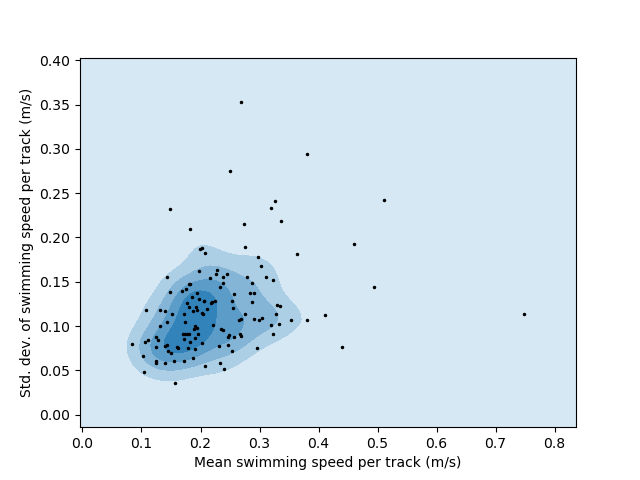
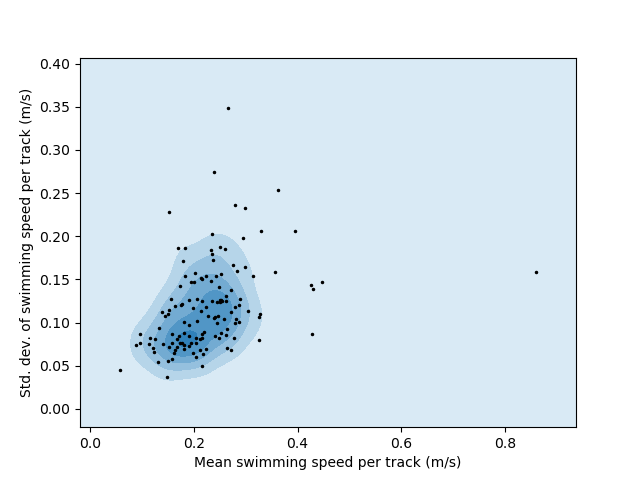
Updating with new hydro output, and plots for 3 choices of vertical

diff --git a/field/hor_yaps/extract_velocities_v3.py b/field/hor_yaps/extract_velocities_v3.py
@@ -10,7 +10,7 @@ import glob, os
 import matplotlib
 import shutil
 import glob
-matplotlib.use('Agg')
+# matplotlib.use('Agg')
 import matplotlib.pyplot as plt
 from scipy.interpolate import LinearNDInterpolator
 
@@ -70,7 +70,9 @@ if use_ptm_output:
     run_starts=[nc['time'].values[0] for nc in avg_ncs]    
 else:                          
     # This time with proper friction
-    mod=sun_driver.SuntansModel.load('/opt2/san_joaquin/cfg008/cfg008_20180409')
+    # mod=sun_driver.SuntansModel.load('/opt2/san_joaquin/cfg008/cfg008_20180409')
+    # New run, attached via USB to laptop:
+    mod=sun_driver.SuntansModel.load('/media/rusty/80c8a8ec-71d2-4687-aa6b-41c23f557be8/san_joaquin/cfg010/cfg010_20180409')
     
     seq=mod.chain_restarts()
     run_starts=np.array([mod.run_start for mod in seq])
@@ -140,24 +142,13 @@ def smoother():
     ug=ug_for_run(run_i=0)
     return ug.grid.smooth_matrix(f=0.5)
 
-@memoize.memoize(lru=20)
-def depth_avg(run_i,t_i):
-    ug=ug_for_run(run_i)
-    #time_idx=utils.nearest(ug.nc.time.values, t)
-    # have to transpose as the velocities have Nk first, but
-    # this defaults to Nk second
-    return ug.vertical_averaging_weights(time_slice=t_i,ztop=0,zbottom=0).T
 
-@memoize.memoize(lru=20)
-def surf_50cm(run_i,t_i):
+@memoize.memoize(lru=60)
+def z_average_weights(run_i,t_i,ztop=None,zbottom=None,dz=None):
     ug=ug_for_run(run_i)
-    #time_idx=utils.nearest(ug.nc.time.values, t)
-    # have to transpose as the velocities have Nk first, but
-    # this defaults to Nk second
-    return ug.vertical_averaging_weights(time_slice=t_i,ztop=0,dz=0.5).T
+    return ug.vertical_averaging_weights(time_slice=t_i,ztop=ztop,zbottom=zbottom,dz=dz).T
 
-#eps=0.5 # finite difference length scale
-eps=2.0
+eps=2.0 # finite difference length scale
 
 from scipy.spatial import Delaunay
 
@@ -178,8 +169,8 @@ def quantize_time(t):
         time_idx=utils.nearest(ug.nc.time.values, t)
     return run_i,time_idx
 
-@memoize.memoize(lru=20)
-def interpolator(run_i,t_i):
+@memoize.memoize(lru=60)
+def interpolator(run_i,t_i,ztop=None,zbottom=None,dz=None):
     """
     Returns a function that takes [...,2] coordinate arrays on 
     input, and for the nearest time step of output spatially
@@ -195,8 +186,8 @@ def interpolator(run_i,t_i):
     # Initialize the fields we'll be filling in
     z_eta=snap['eta'].values
 
-    # depth average
-    weights=depth_avg(run_i,t_i)
+    # depth average, or subset thereof
+    weights=z_average_weights(run_i,t_i,ztop=ztop,zbottom=zbottom,dz=dz)
     u3d=snap.uc.values
     v3d=snap.vc.values
     u2d=np.where(np.isnan(u3d),0,weights*u3d).sum(axis=0)
@@ -204,34 +195,16 @@ def interpolator(run_i,t_i):
     values=np.c_[u2d,v2d,z_eta,z_bed]
     return LinearNDInterpolator(pnts, values)
 
-@memoize.memoize(lru=20)
-def surf_interpolator(run_i,t_i):
-    """
-    Returns a function that takes [...,2] coordinate arrays on 
-    input, and for the nearest time step of output spatially
-    interpolates uc,vc integrated over the top 50cm of the
-    watercolumn
-    """
-    ug=ug_for_run(run_i)
-    snap=snap_for_time(run_i,t_i)
-    pnts=pnts_for_interpolator()
-    
-    # top 50cm
-    weights=surf_50cm(run_i,t_i)
-    u3d=snap.uc.values
-    v3d=snap.vc.values
-    u2d=np.where(np.isnan(u3d),0,weights*u3d).sum(axis=0)
-    v2d=np.where(np.isnan(v3d),0,weights*v3d).sum(axis=0)
-    values=np.c_[u2d,v2d]
-    return LinearNDInterpolator(pnts, values)
-
 ##
 
 if not os.path.exists(output_path):
     os.makedirs(output_path)
 
-
 results=[]
+
+z_slices=[('_top1m',dict(ztop=0,dz=1.0)),
+          ('_top2m',dict(ztop=0,dz=2.0)),
+          ('_davg',dict(ztop=0,zbottom=0))]
 
 for idx,row in df_in.iterrows(): #track_fn in track_fns:
     #output_fn=os.path.join(output_path,os.path.basename(track_fn))
@@ -257,39 +230,32 @@ for idx,row in df_in.iterrows(): #track_fn in track_fns:
         rec={} # new fields to be added to segments.
         t=seg['time_m'].to_datetime64()
         run_i,t_i=quantize_time(t)
-        # snap=snap_for_time(run_i,t_i)
-
-        Uint=interpolator(run_i,t_i)
-        
-        # vorticity at centers
-        x_samp=np.array( [ [seg['x_m']    , seg['y_m']      ],
-                           [seg['x_m']-eps, seg['y_m']      ],
-                           [seg['x_m']+eps, seg['y_m']      ],
-                           [seg['x_m']    , seg['y_m'] - eps],
-                           [seg['x_m']    , seg['y_m'] + eps]
-        ] )
-
-        u=Uint(x_samp)
-        u=np.where(np.isfinite(u),u,0)
-        # central differencing
-        w=(u[2,1]-u[1,1])/(2*eps) - (u[4,0]-u[3,0])/(2*eps)
 
         rec['index']=i
-        rec['model_vor']=w
-        rec['model_u']=u[0,0]
-        rec['model_v']=u[0,1]
+
+        for slice_name,slice_def in z_slices:
+            Uint=interpolator(run_i,t_i,**slice_def)
+        
+            # vorticity at centers
+            x_samp=np.array( [ [seg['x_m']    , seg['y_m']      ],
+                               [seg['x_m']-eps, seg['y_m']      ],
+                               [seg['x_m']+eps, seg['y_m']      ],
+                               [seg['x_m']    , seg['y_m'] - eps],
+                               [seg['x_m']    , seg['y_m'] + eps]
+            ] )
+
+            u=Uint(x_samp)
+            u=np.where(np.isfinite(u),u,0)
+            # central differencing
+            #  dv/dx - du/dy
+            w=(u[2,1]-u[1,1])/(2*eps) - (u[4,0]-u[3,0])/(2*eps)
+
+            rec['model_vor'  +slice_name]=w
+            rec['model_u'    +slice_name]=u[0,0]
+            rec['model_v'    +slice_name]=u[0,1]
+        
         rec['model_z_eta']=u[0,2]
         rec['model_z_bed']=u[0,3]
-
-        Usurf=surf_interpolator(run_i,t_i)
-        u=Usurf(x_samp)
-        u=np.where(np.isfinite(u),u,0)
-        # central differencing
-        w=(u[2,1]-u[1,1])/(2*eps) - (u[4,0]-u[3,0])/(2*eps)
-
-        rec['model_vor_surf']=w
-        rec['model_u_surf']=u[0,0]
-        rec['model_v_surf']=u[0,1]
 
         new_records.append(rec)
 

diff --git a/field/hor_yaps/plot_tracks.py b/field/hor_yaps/plot_tracks.py
@@ -11,12 +11,20 @@ import track_common
 ##
 
 input_path="screen_final"
-fig_dir=os.path.join(input_path,'figs-20200502')
-if not os.path.exists(fig_dir):
-    os.makedirs(fig_dir)
 
 df=track_common.read_from_folder(input_path)
 
+vel_suffix='_top1m'
+
+df['track'].apply(track_common.calc_velocities,
+                  model_u='model_u'+vel_suffix,model_v='model_v'+vel_suffix)
+
+##
+fig_dir=os.path.join(input_path,'figs-20200620'+vel_suffix)
+if not os.path.exists(fig_dir):
+    os.makedirs(fig_dir)
+
+                
 ##     PLOTS    ##
 
 from scipy.stats import gaussian_kde
@@ -31,7 +39,7 @@ turbo=scmap.load_gradient('turbo.cpt')
 hydros=pd.read_csv('yap-positions.csv')
 
 ## 
-dem=field.GdalGrid("../../bathy/junction-composite-dem-no_adcp.tif")
+dem=field.GdalGrid("../../bathy/junction-composite-20200604-w_smooth.tif")
 
 ##
 
@@ -148,7 +156,8 @@ def figure_swim_hydro_speed(num=23,
     fig.set_size_inches((8,2.75),forward=True)
 
     swim_speed =np.sqrt( seg_tracks['swim_u'].values**2 + seg_tracks['swim_v'].values**2)
-    hydro_speed=np.sqrt( seg_tracks['model_u_surf'].values**2 + seg_tracks['model_v_surf'].values**2)
+    hydro_speed=np.sqrt( seg_tracks['model_u'+vel_suffix].values**2 +
+                         seg_tracks['model_v'+vel_suffix].values**2)
 
     for ax,dep in [ (ax_mag,swim_speed),
                     (ax_u, np.abs(seg_tracks['swim_urel'].values)),
@@ -202,8 +211,8 @@ fig=figure_swim_hydro_speed(weights=weights,num=24)
 fig.savefig(os.path.join(fig_dir,"all_segments-swim_hydro_speed-per_tag.png"),dpi=200)
 
 ##
-model_u='model_u'
-model_v='model_v'
+model_u='model_u'+vel_suffix
+model_v='model_v'+vel_suffix
 
 def fig_track_swimming(seg_track,num=20,zoom=None,buttons=True,
                        swim_filt=None):
@@ -324,7 +333,7 @@ def fig_track_swimming(seg_track,num=20,zoom=None,buttons=True,
 # and didn't make the cut.  It still looks okay. So maybe worth relaxing that constraint?
 # 7577 is positive rheotaxis
 from stompy import filters
-plots=fig_track_swimming(df.loc['7ACD','track'],
+plots=fig_track_swimming(df.loc['7A96','track'],
                          num=20,
                          #swim_filt=lambda x: medfilt(x,9)
                          # swim_filt=lambda x: filters.lowpass_fir(x,winsize=13))
@@ -380,7 +389,6 @@ pos_cells=[g.select_cells_nearest(pnt,inside=True)
 
 ## 
 gwet=g.copy()
-gwet.add_cell_field('cell_depth',g.cells['cell_depth'])
 
 for c in np.nonzero( gwet.cells['cell_depth']>1.9 )[0]:
     gwet.delete_cell(c)

diff --git a/field/hor_yaps/track_analyses.py b/field/hor_yaps/track_analyses.py
@@ -1,21 +1,32 @@
 import matplotlib.pyplot as plt
 from scipy import stats
+import numpy as np
 import os
 import track_common
 import seaborn as sns
-from stompy import memoize
+from stompy import memoize, utils
+import pandas as pd
 from stompy.io.local import cdec
 from scipy.stats.kde import gaussian_kde
 from scipy import signal 
 ##
-fig_dir="fig_analysis-20200427"
+
+vel_suffix='_top2m'
+
+fig_dir="fig_analysis-20200620"+vel_suffix
 if not os.path.exists(fig_dir):
     os.makedirs(fig_dir)
 
 ## 
 df_start=track_common.read_from_folder('screen_final')
 
+
 ##
+
+df_start['track'].apply(track_common.calc_velocities,
+                        model_u='model_u'+vel_suffix,
+                        model_v='model_v'+vel_suffix)
+
 
 # Day-night variability
 
@@ -40,7 +51,8 @@ df_start['mean_gnd_urel']=df_start.track.apply( lambda t: np.nanmean( t.ground_u
 df_start['mean_gnd_mag'] =df_start.track.apply( lambda t: np.nanmean( t.groundspeed) )
 
 for track in df_start.track.values:
-    track['model_mag']=np.sqrt(track.model_u_surf**2 + track.model_v_surf**2)
+    track['model_mag']=np.sqrt(track['model_u'+vel_suffix]**2 +
+                               track['model_v'+vel_suffix]**2)
     
 df_start['mean_model_mag']=df_start.track.apply( lambda t: np.nanmean( t.model_mag) )
 ## 
@@ -156,7 +168,6 @@ fig.savefig(os.path.join(fig_dir,'octant-swim_lateral.png'))
 
 ##
 
-
 fig=plt.figure(34)
 fig.clf()
 ax=fig.add_subplot(111)
@@ -178,7 +189,6 @@ ax.set_ylabel('Mean groundspeed')
 fig.savefig(os.path.join(fig_dir,'octant-gnd_speed.png'))
 
 ##
-
 
 fig=plt.figure(36)
 fig.clf()

diff --git a/field/hor_yaps/screen_tracks.py b/field/hor_yaps/screen_tracks.py
@@ -14,7 +14,7 @@ import seaborn as sns
 
 ##
 
-fig_dir="figs20200411"
+fig_dir="figs20200620"
 if not os.path.exists(fig_dir):
     os.makedirs(fig_dir)
 
@@ -218,7 +218,7 @@ print("After removing long-duration or small position count tracks %d left"%(len
 
 # Add velocities
 df_screen['track'].apply(track_common.calc_velocities,
-                         model_u='model_u_surf',model_v='model_v_surf')
+                         model_u='model_u_top2m',model_v='model_v_top2m')
 
 ##
 
@@ -410,7 +410,7 @@ print(df.iloc[fast_tags,:].loc[:,'swim_spd_mean'])
 df=df_trim_crossings
 
 # Presumed predators:
-non_smolt = ['7A51','746D','74B4']
+non_smolt = ['746D'] # '7A51','74B4']
 
 smolt_sel = ~(df.index.isin(non_smolt))
 
@@ -420,5 +420,17 @@ print("Removed %d tracks as non-smolts, %d --> %d tracks"%
       (len(non_smolt), len(df), len(df_smolt)))
 
 ##
+
+# These depend on the choice of model velocity, so discard
+# whatever was used for the screening, and recompute later as needed
+# based on a specific choice of velocity
+del df_smolt['swim_spd_mean']
+del df_smolt['swim_spd_std']
+
+def clean_vel(t):
+    for f in ['swim_u', 'swim_v', 'swim_hdg', 'swim_hdg_rel', 'swim_urel', 'swim_vrel']:
+        del t[f]
+
+df_smolt['track'].apply(clean_vel)
 
 track_common.dump_to_folder(df_smolt, 'screen_final')
